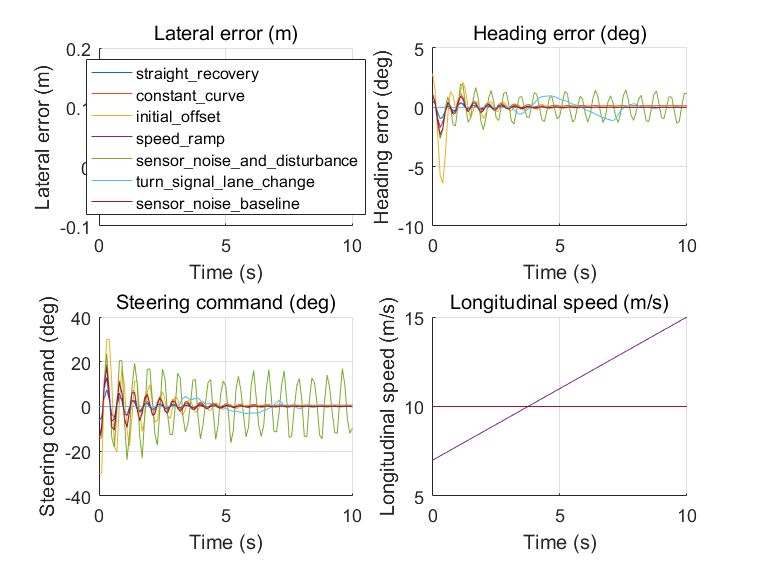
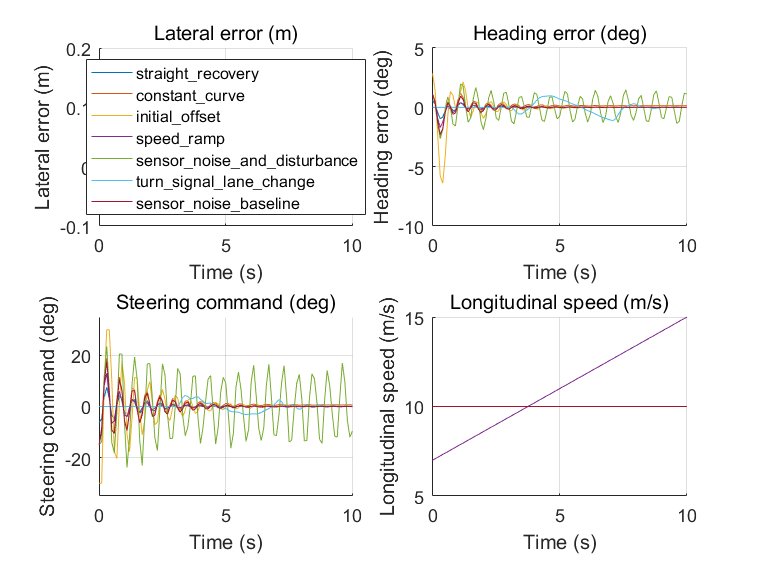
Clarify steering saturation in simulation plots

Changed region(s): [[0.091, 0.5677, 0.4855, 0.8366], [0.091, 0.8664, 0.1214, 0.8963], [0.091, 0.5378, 0.1214, 0.5677]]

diff --git a/lkas-control-mini-car/matlab/run_lkas_demo.m b/lkas-control-mini-car/matlab/run_lkas_demo.m
@@ -43,6 +43,7 @@ ylabel('e_\psi (deg)');
 subplot(3, 1, 3);
 plot(result.time, result.steeringAngle * 180/pi);
 grid on;
+ylim([-35, 35]);
 ylabel('\delta (deg)');
 xlabel('Time (s)');
 pngPath = fullfile(outputDirectory, 'reference_simulation.png');

diff --git a/lkas-control-mini-car/matlab/run_lkas_suite.m b/lkas-control-mini-car/matlab/run_lkas_suite.m
@@ -108,6 +108,9 @@ grid on;
 xlabel('Time (s)');
 ylabel(plotTitle);
 title(plotTitle);
+if position == 3
+    ylim([-35, 35]);
+end
 if position == 1
     names = cell(numel(results), 1);
     for k = 1:numel(results)
